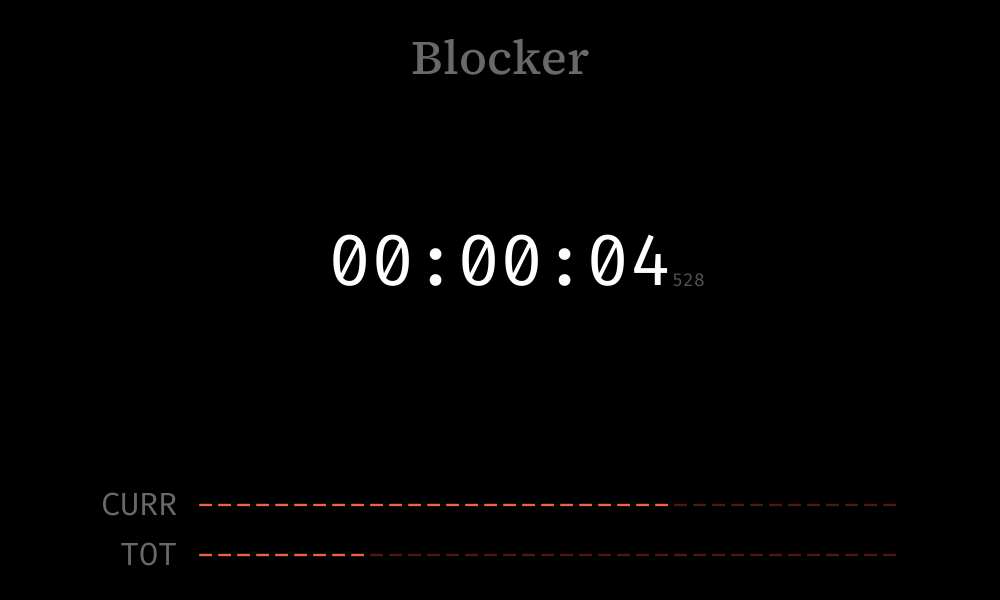
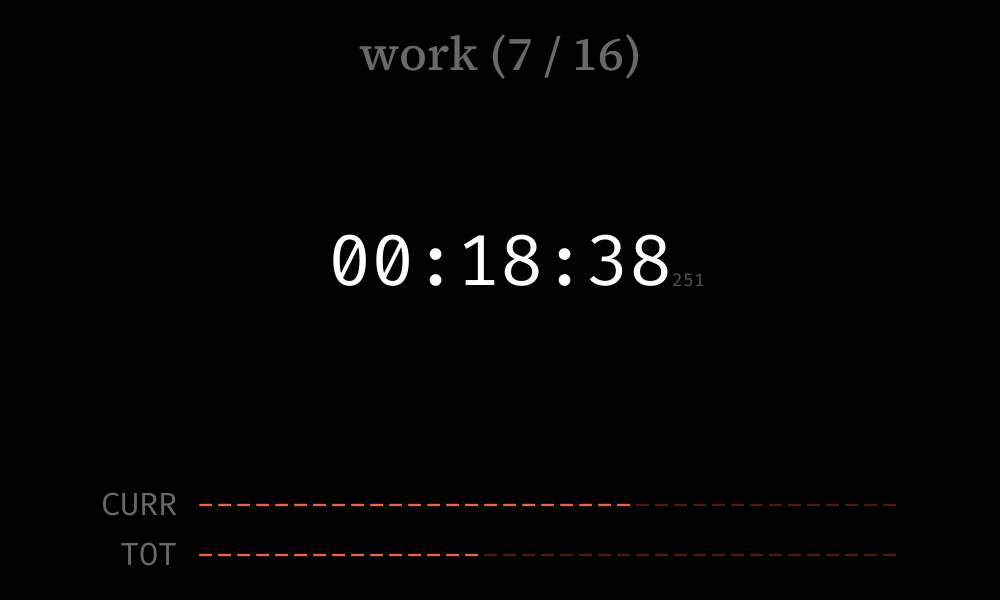
asdf

diff --git a/main.py b/main.py
@@ -3,8 +3,16 @@ from type import Time, Timer, Blocker
 if __name__ == "__main__":
     t = Timer(
         # Block until 10:30 am (uses 24h format)
-        Blocker(hour=10, minute=30),
+        # Blocker(hour=10, minute=30),
 
+        Time("work"      , minute=50),
+        Time("break"     , minute=5 ),
+        Time("work"      , minute=50),
+        Time("break"     , minute=5 ),
+        Time("work"      , minute=50),
+        Time("break"     , minute=5 ),
+        Time("work"      , minute=50),
+        Time("long break", minute=25),
         Time("work"      , minute=50),
         Time("break"     , minute=5 ),
         Time("work"      , minute=50),
